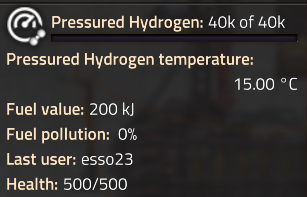
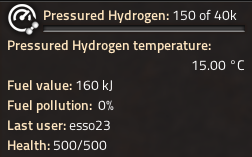
Pressured Hydrogen nerf.

diff --git a/readme.md b/readme.md
@@ -66,7 +66,7 @@ Example:
 - **Coke** - 85% pollution
 
 As you process further, you get less pollution on your fuels (this is not a general rule, we left some of them untouched at 100% pollution).  
-We also made Fuel Rods viable, MK01 starts at 75% pollution and goes all the way down to 49% at MK05.
+We also made Fuel Rods viable, MK01 starts at 75% pollution and goes all the way down to 49% at MK05.  
 Some liquid fuels have had their energy capacity reduced slightly.
 
 ### Hydrogen
@@ -75,7 +75,7 @@ Some liquid fuels have had their energy capacity reduced slightly.
 
 Until now you could use Hydrogen as an easy source of fuel, but that is no more. It is known fact that you need more energy to separate hydrogen from oxygen than the hydrogen provides (around 170 MJ to produce 1kg of Hydrogen which has 120 - 140 MJ of energy).  
 Also, 1kg of Hydrogen in gas state has ~12m3 so prepare your largest fluid tanks :)  
-One unit of hydrogen now has 15kJ (this is calculated from Electrolyzer MK01, so on higher MKs you can be energy-positive) down from 400kJ, but using Hydrogen no longer generates ANY pollution.  
+One unit of hydrogen now has 15kJ (this is calculated from Electrolyzer MK01, so on higher MKs you can be energy-positive) down from 400kJ, but using Hydrogen as fuel no longer generates ANY pollution.  
 You can also use Pressured Hydrogen as fuel if you want to save some space (you also get some extra energy value when you do this).
 
 ### Pollution-absorbing buildings
